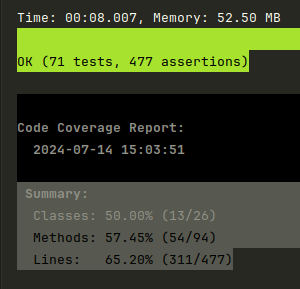
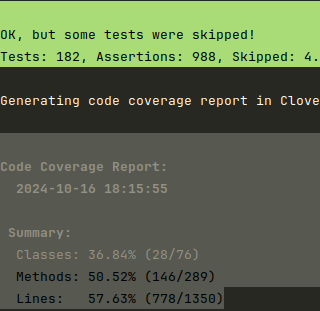
<fix and test>: add tests and fix bugs
Se culmina la cobertura del JiraProjectCategoryController, contemplando todos los métodos y los casos bordes del negocio.

Se actualiza la imagen de cobertura de código con la información actual la cual es visualizada en el README

diff --git a/tests/Feature/v1/Jira/Controllers/ProjectCategory/JiraProjectCategoryControllerDestroyTest.php b/tests/Feature/v1/Jira/Controllers/ProjectCategory/JiraProjectCategoryControllerDestroyTest.php
@@ -1,0 +1,177 @@
+<?php
+
+namespace Tests\Feature\v1\Jira\Controllers\ProjectCategory;
+
+use App\Exceptions\JsonResponseAttachment;
+use App\Models\v1\Jira\JiraProjectCategory;
+use App\Services\v1\Jira\JiraProjectCategoryService;
+use Illuminate\Auth\Access\AuthorizationException;
+use Illuminate\Foundation\Testing\RefreshDatabase;
+use Illuminate\Support\Facades\Gate;
+use Mockery;
+use PHPUnit\Framework\Attributes\Test;
+use Symfony\Component\HttpFoundation\Response;
+use Tests\TestCase;
+
+class JiraProjectCategoryControllerDestroyTest extends TestCase
+{
+    use RefreshDatabase;
+
+    private string $urlPath = 'jira/project-categories';
+
+    #[Test]
+    public function an_unauthenticated_user_cannot_delete_a_project_category(): void // phpcs:ignore
+    {
+        $jiraProjectCategory = JiraProjectCategory::factory()->create();
+
+        // @phpstan-ignore-next-line
+        $response = $this->deleteJson("$this->apiBaseUrl/$this->urlPath/$jiraProjectCategory->id");
+
+        $response->assertStatus(Response::HTTP_UNAUTHORIZED);
+        $response->assertJsonFragment([
+            'data' => [],
+            'message' => 'Unauthenticated.',
+            'errors' => []
+        ]);
+    }
+
+    #[Test]
+    public function an_authenticated_user_without_permission_cannot_delete_a_project_category(): void // phpcs:ignore
+    {
+        $this->loginWithFakeUser();
+        $jiraProjectCategory = JiraProjectCategory::factory()->create();
+        Gate::shouldReceive('authorize')
+            ->with('delete', Mockery::any())
+            ->andThrow(AuthorizationException::class, 'This action is unauthorized.');
+
+        // @phpstan-ignore-next-line
+        $response = $this->deleteJson("$this->apiBaseUrl/$this->urlPath/$jiraProjectCategory->id");
+
+        $response->assertStatus(Response::HTTP_UNAUTHORIZED);
+        $response->assertJsonFragment([
+            'message' => 'This action is unauthorized.',
+            'errors' => []
+        ]);
+    }
+
+    #[Test]
+    public function an_authenticated_user_can_delete_a_project_category(): void // phpcs:ignore
+    {
+        $this->loginWithFakeUser();
+        $jiraProjectCategory = JiraProjectCategory::factory()->create();
+
+        // @phpstan-ignore-next-line
+        $response = $this->deleteJson("$this->apiBaseUrl/$this->urlPath/$jiraProjectCategory->id");
+
+        $response->assertStatus(Response::HTTP_OK);
+        $response->assertJsonFragment([
+            'message' => 'JiraProjectCategory deleted successfully.',
+            'errors' => []
+        ]);
+
+        $this->assertSoftDeleted('jira_project_categories', [
+            'id' => $jiraProjectCategory->id, // @phpstan-ignore-line
+        ]);
+    }
+
+    #[Test]
+    public function an_authenticated_user_with_explicit_permission_can_delete_a_project_category(): void // phpcs:ignore
+    {
+        $this->loginWithFakeUser();
+        $jiraProjectCategory = JiraProjectCategory::factory()->create();
+
+        Gate::shouldReceive('authorize')
+            ->with('delete', Mockery::any())
+            ->andReturn(true);
+
+        // @phpstan-ignore-next-line
+        $response = $this->deleteJson("$this->apiBaseUrl/$this->urlPath/{$jiraProjectCategory->id}");
+
+        $response->assertStatus(Response::HTTP_OK);
+        $response->assertJsonFragment([
+            'message' => 'JiraProjectCategory deleted successfully.',
+            'errors' => []
+        ]);
+
+        $this->assertSoftDeleted('jira_project_categories', [
+            'id' => $jiraProjectCategory->id, // @phpstan-ignore-line
+        ]);
+    }
+
+    #[Test]
+    public function an_authenticated_user_cannot_delete_a_non_existent_project_category(): void // phpcs:ignore
+    {
+        $this->loginWithFakeUser();
+        $nonExistentCategoryId = 9999;
+
+        $response = $this->deleteJson("$this->apiBaseUrl/$this->urlPath/$nonExistentCategoryId");
+
+        $response->assertStatus(Response::HTTP_UNPROCESSABLE_ENTITY);
+        $response->assertJsonFragment([
+            'message' => "Resource $nonExistentCategoryId not found.",
+            'errors' => []
+        ]);
+    }
+
+    #[Test]
+    public function an_authenticated_user_cannot_delete_a_soft_deleted_project_category(): void // phpcs:ignore
+    {
+        $this->loginWithFakeUser();
+        $jiraProjectCategory = JiraProjectCategory::factory()->create();
+        $jiraProjectCategory->delete();
+
+        // @phpstan-ignore-next-line
+        $response = $this->deleteJson("$this->apiBaseUrl/$this->urlPath/$jiraProjectCategory->id");
+
+        $response->assertStatus(Response::HTTP_UNPROCESSABLE_ENTITY);
+        $response->assertJsonFragment([
+            'data' => [],
+            'message' => "Resource {$jiraProjectCategory->id} not found.", // @phpstan-ignore-line
+            'errors' => []
+        ]);
+    }
+
+    #[Test]
+    public function it_handles_json_response_attachment_exception_during_delete(): void // phpcs:ignore
+    {
+        $this->loginWithFakeUser();
+        $jiraProjectCategory = JiraProjectCategory::factory()->create();
+        $mockService = Mockery::mock(JiraProjectCategoryService::class);
+        $mockService->shouldReceive('delete') // @phpstan-ignore-line
+        ->once()
+            ->andThrow(new JsonResponseAttachment(
+                'Custom error message',
+                Response::HTTP_BAD_REQUEST
+            ));
+
+        $this->app->instance(JiraProjectCategoryService::class, $mockService);
+
+        // @phpstan-ignore-next-line
+        $response = $this->deleteJson("$this->apiBaseUrl/$this->urlPath/{$jiraProjectCategory->id}");
+
+        $response->assertStatus(Response::HTTP_BAD_REQUEST);
+        $response->assertJson([
+            'message' => 'Custom error message',
+            'errors' => []
+        ]);
+    }
+
+    #[Test]
+    public function it_handles_concurrent_deletion_attempts(): void // phpcs:ignore
+    {
+        $this->loginWithFakeUser();
+        $jiraProjectCategory = JiraProjectCategory::factory()->create();
+
+        // @phpstan-ignore-next-line
+        $response1 = $this->deleteJson("$this->apiBaseUrl/$this->urlPath/{$jiraProjectCategory->id}");
+        // @phpstan-ignore-next-line
+        $response2 = $this->deleteJson("$this->apiBaseUrl/$this->urlPath/{$jiraProjectCategory->id}");
+
+        $response1->assertStatus(Response::HTTP_OK);
+        $response2->assertStatus(Response::HTTP_UNPROCESSABLE_ENTITY);
+        $response2->assertJsonFragment([
+            'message' => "Resource {$jiraProjectCategory->id} not found.", // @phpstan-ignore-line
+            'errors' => []
+        ]);
+    }
+}

diff --git a/tests/Feature/v1/Jira/Controllers/ProjectCategory/JiraProjectCategoryControllerStoreTest.php b/tests/Feature/v1/Jira/Controllers/ProjectCategory/JiraProjectCategoryControllerStoreTest.php
@@ -3,7 +3,10 @@
 namespace Tests\Feature\v1\Jira\Controllers\ProjectCategory;
 
 use App\Models\v1\Jira\JiraProjectCategory;
+use Illuminate\Auth\Access\AuthorizationException;
 use Illuminate\Foundation\Testing\RefreshDatabase;
+use Illuminate\Support\Facades\Gate;
+use Mockery;
 use PHPUnit\Framework\Attributes\Test;
 use Symfony\Component\HttpFoundation\Response;
 use Tests\TestCase;
@@ -12,10 +15,12 @@ class JiraProjectCategoryControllerStoreTest extends TestCase
 {
     use RefreshDatabase;
 
+    private string $urlPath = 'jira/project-categories';
+
     #[Test]
     public function an_unauthenticated_user_cannot_store_a_category(): void // phpcs:ignore
     {
-        $response = $this->postJson($this->apiBaseUrl . '/jira/project-categories', [
+        $response = $this->postJson("$this->apiBaseUrl/$this->urlPath", [
             'name' => 'Test Category',
             'description' => 'Test Description'
         ]);
@@ -34,7 +39,7 @@ class JiraProjectCategoryControllerStoreTest extends TestCase
             'jira_category_id' => 22
         ];
 
-        $response = $this->postJson($this->apiBaseUrl . '/jira/project-categories', $categoryData);
+        $response = $this->postJson("$this->apiBaseUrl/$this->urlPath", $categoryData);
 
         $response->assertStatus(Response::HTTP_OK);
         $response->assertJsonStructure([
@@ -53,6 +58,28 @@ class JiraProjectCategoryControllerStoreTest extends TestCase
     }
 
     #[Test]
+    public function an_authenticated_user_without_permission_cannot_store_a_project_category(): void // phpcs:ignore
+    {
+        $this->loginWithFakeUser();
+        Gate::shouldReceive('authorize')
+            ->with('create', JiraProjectCategory::class)
+            ->andThrow(AuthorizationException::class, 'This action is unauthorized.');
+        $categoryData = [
+            'name' => 'New Category',
+            'description' => 'New Description',
+            'jira_category_id' => 22
+        ];
+
+        $response = $this->postJson("$this->apiBaseUrl/$this->urlPath", $categoryData);
+
+        $response->assertStatus(Response::HTTP_UNAUTHORIZED);
+        $response->assertJsonFragment([
+            'message' => 'This action is unauthorized.',
+            'errors' => []
+        ]);
+    }
+
+    #[Test]
     public function it_returns_validation_errors_for_invalid_data(): void // phpcs:ignore
     {
         $this->loginWithFakeUser();
@@ -61,7 +88,7 @@ class JiraProjectCategoryControllerStoreTest extends TestCase
             'jira_category_id' => null,
         ];
 
-        $response = $this->postJson($this->apiBaseUrl . '/jira/project-categories', $invalidData);
+        $response = $this->postJson("$this->apiBaseUrl/$this->urlPath", $invalidData);
 
         $response->assertStatus(Response::HTTP_UNPROCESSABLE_ENTITY);
         $response->assertJsonValidationErrors(['name', 'jira_category_id']);
@@ -73,7 +100,7 @@ class JiraProjectCategoryControllerStoreTest extends TestCase
         $this->loginWithFakeUser();
         JiraProjectCategory::factory()->create(['name' => 'Existing Category']);
 
-        $response = $this->postJson($this->apiBaseUrl . '/jira/project-categories', [
+        $response = $this->postJson("$this->apiBaseUrl/$this->urlPath", [
             'name' => 'Existing Category',
             'description' => 'New Description',
             'jira_category_id' => 22,
@@ -89,7 +116,7 @@ class JiraProjectCategoryControllerStoreTest extends TestCase
         $this->loginWithFakeUser();
         JiraProjectCategory::factory()->create(['jira_category_id' => 22]);
 
-        $response = $this->postJson($this->apiBaseUrl . '/jira/project-categories', [
+        $response = $this->postJson("$this->apiBaseUrl/$this->urlPath", [
             'name' => 'Existing Category',
             'description' => 'New Description',
             'jira_category_id' => 22,
@@ -109,7 +136,7 @@ class JiraProjectCategoryControllerStoreTest extends TestCase
             'jira_category_id' => 22,
         ];
 
-        $response = $this->postJson($this->apiBaseUrl . '/jira/project-categories', $categoryData);
+        $response = $this->postJson("$this->apiBaseUrl/$this->urlPath", $categoryData);
 
         $response->assertStatus(Response::HTTP_OK);
         $this->assertDatabaseHas('jira_project_categories', [
@@ -127,7 +154,7 @@ class JiraProjectCategoryControllerStoreTest extends TestCase
             'jira_category_id' => 22,
         ];
 
-        $response = $this->postJson($this->apiBaseUrl . '/jira/project-categories', $categoryData);
+        $response = $this->postJson("$this->apiBaseUrl/$this->urlPath", $categoryData);
 
         $response->assertStatus(Response::HTTP_OK);
         $this->assertDatabaseHas('jira_project_categories', [
@@ -145,7 +172,7 @@ class JiraProjectCategoryControllerStoreTest extends TestCase
             'jira_category_id' => 22
         ];
 
-        $response = $this->postJson($this->apiBaseUrl . '/jira/project-categories', $categoryData);
+        $response = $this->postJson("$this->apiBaseUrl/$this->urlPath", $categoryData);
 
         $response->assertStatus(Response::HTTP_OK);
         $this->assertDatabaseHas('jira_project_categories', $categoryData);
@@ -161,7 +188,7 @@ class JiraProjectCategoryControllerStoreTest extends TestCase
             'jira_category_id' => 22,
         ];
 
-        $response = $this->postJson($this->apiBaseUrl . '/jira/project-categories', $categoryData);
+        $response = $this->postJson("$this->apiBaseUrl/$this->urlPath", $categoryData);
 
         $response->assertStatus(Response::HTTP_OK);
         $this->assertDatabaseHas('jira_project_categories', [
@@ -180,7 +207,7 @@ class JiraProjectCategoryControllerStoreTest extends TestCase
             'jira_category_id' => 22,
         ];
 
-        $response = $this->postJson($this->apiBaseUrl . '/jira/project-categories', $categoryData);
+        $response = $this->postJson("$this->apiBaseUrl/$this->urlPath", $categoryData);
 
         $response->assertStatus(Response::HTTP_OK);
         $this->assertDatabaseHas('jira_project_categories', $categoryData);

diff --git a/app/Http/Controllers/v1/Jira/JiraProjectCategoryController.php b/app/Http/Controllers/v1/Jira/JiraProjectCategoryController.php
@@ -50,6 +50,7 @@ class JiraProjectCategoryController extends Controller
     public function store(JiraProjectCategoryRequest $request): JsonResponse
     {
         $project_category = $request->validated();
+        Gate::authorize('create', JiraProjectCategory::class);
         return JiraProjectCategoryResource::toJsonResponse(
             $this->jiraProjectCategoryService->make($project_category)
         );
@@ -67,6 +68,7 @@ class JiraProjectCategoryController extends Controller
     {
         try {
             $params = $request->validated();
+            Gate::authorize('view', $project_category);
             return JiraProjectCategoryResource::toJsonResponse(
                 $this->jiraProjectCategoryService->load($project_category, $params)
             );
@@ -94,8 +96,16 @@ class JiraProjectCategoryController extends Controller
         return JiraProjectCategoryResource::toJsonResponse($updatedCategory);
     }
 
+    /**
+     *  destroy
+     *
+     * @param JiraProjectCategoryRequest $request
+     * @param JiraProjectCategory        $project_category
+     * @return JsonResponse
+     */
     public function destroy(JiraProjectCategoryRequest $request, JiraProjectCategory $project_category): JsonResponse
     {
+        Gate::authorize('delete', $project_category);
         $request->validated();
         $this->jiraProjectCategoryService->delete($project_category);
         return jsonResponse(message: 'JiraProjectCategory deleted successfully.');
